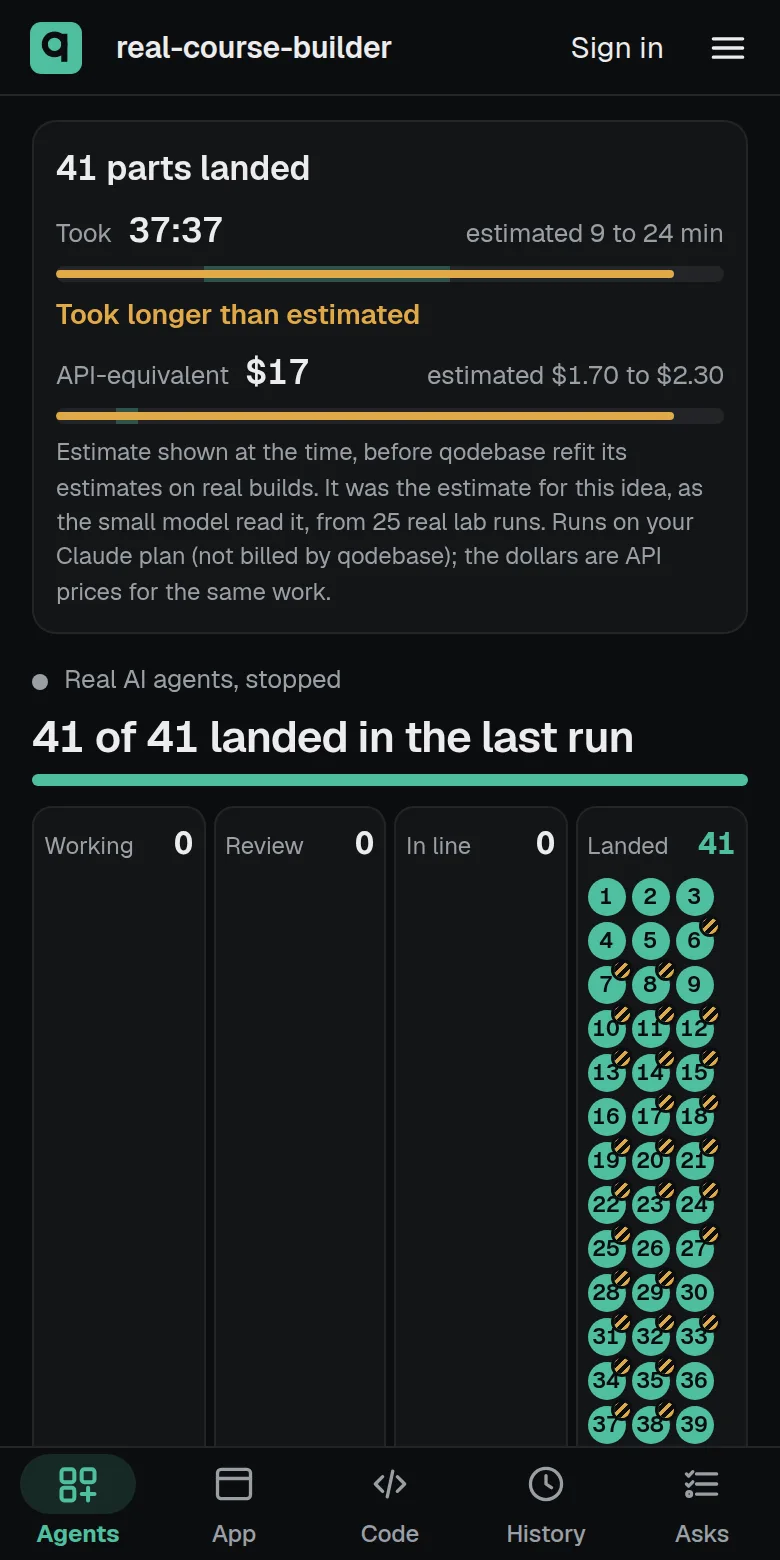
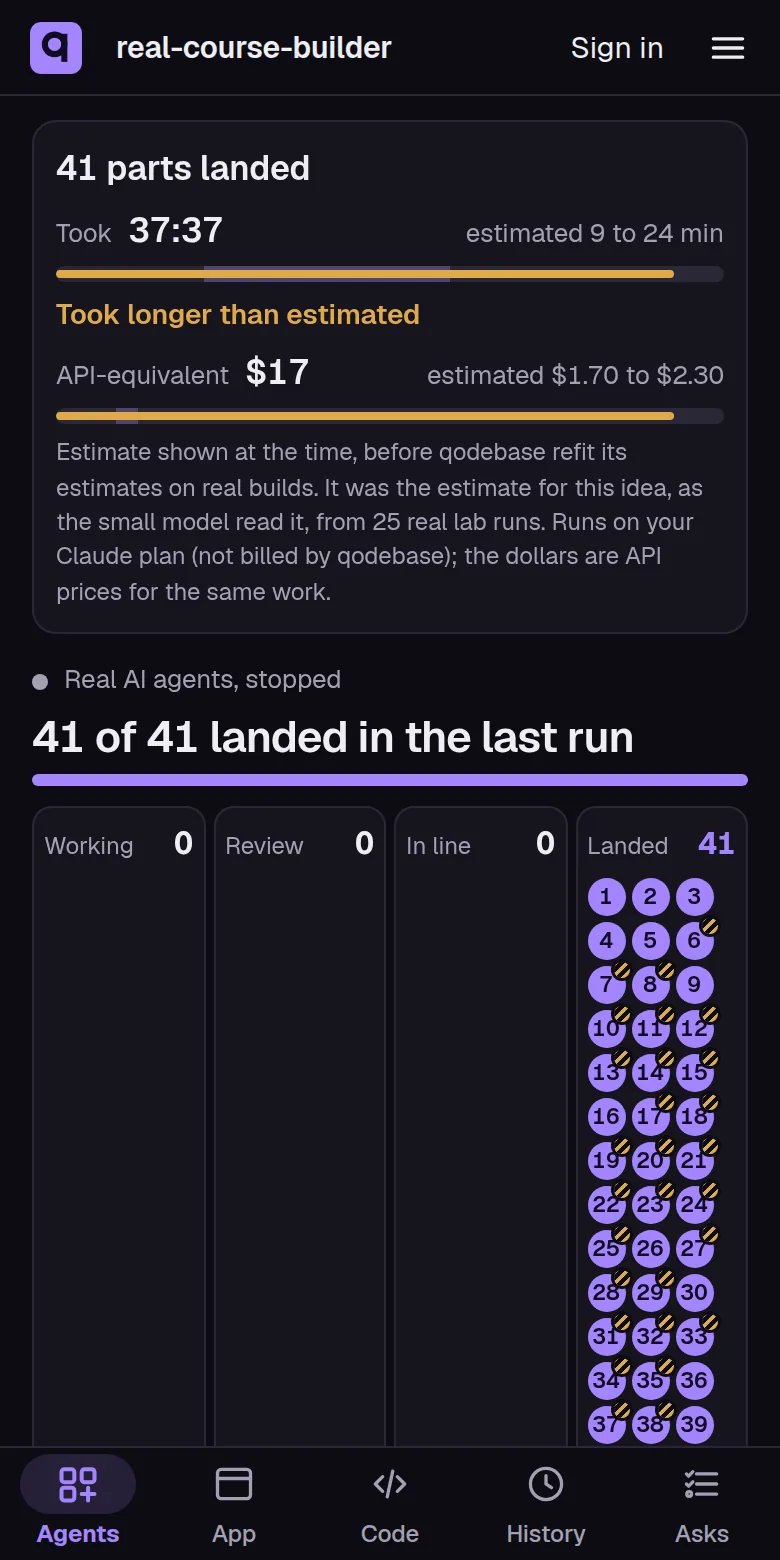
Deck: app screenshots retaken in violet (signed out, 390x780 @2x, light+dark) with video/contest/shoot-app.mjs; intents slide numbers as the page shows them now (4,037 of 4,064, 27 did not land)

diff --git a/public/deck/index.html b/public/deck/index.html
@@ -376,8 +376,8 @@ body.rec .prog,body.rec .notes{display:none}
 </section>
 
 <section class="s" data-t="Intents" data-sec="D">
- <div class="claim"><h2>With 1,000 agents, you browse intents, not agents</h2><p>Each request splits into areas, each area into what one agent set out to do, then its change. Status rolls up on every line, stuck things first, and any change leads back to the request it came from.</p><span class="src">A fleet run on 4,063 VS Code files: 4,042 done, 21 did not land, shown first; the same view for a 40-agent app build</span></div>
- <div class="vis"><div class="phone"><img class="shot" data-shot="intentsrun" alt="Intents for a fleet run: 4,042 done, 21 did not land, by folder"></div></div>
+ <div class="claim"><h2>With 1,000 agents, you browse intents, not agents</h2><p>Each request splits into areas, each area into what one agent set out to do, then its change. Status rolls up on every line, stuck things first, and any change leads back to the request it came from.</p><span class="src">A fleet run on 4,064 VS Code files (copy 3 of S5b): 4,037 done, 27 did not land, shown first; the same view for a 40-agent app build</span></div>
+ <div class="vis"><div class="phone"><img class="shot" data-shot="intentsrun" alt="Intents for a fleet run: 4,037 of 4,064 done, 27 did not land, by folder"></div></div>
  <aside class="say">With a thousand agents, nobody can follow agents one by one. So qodebase shows intents: each request, split into areas, then what each agent set out to do, then its change. Every line rolls up its status, stuck things come first, and from any change you can ask why it exists, all the way up to the request.</aside>
 </section>
 
